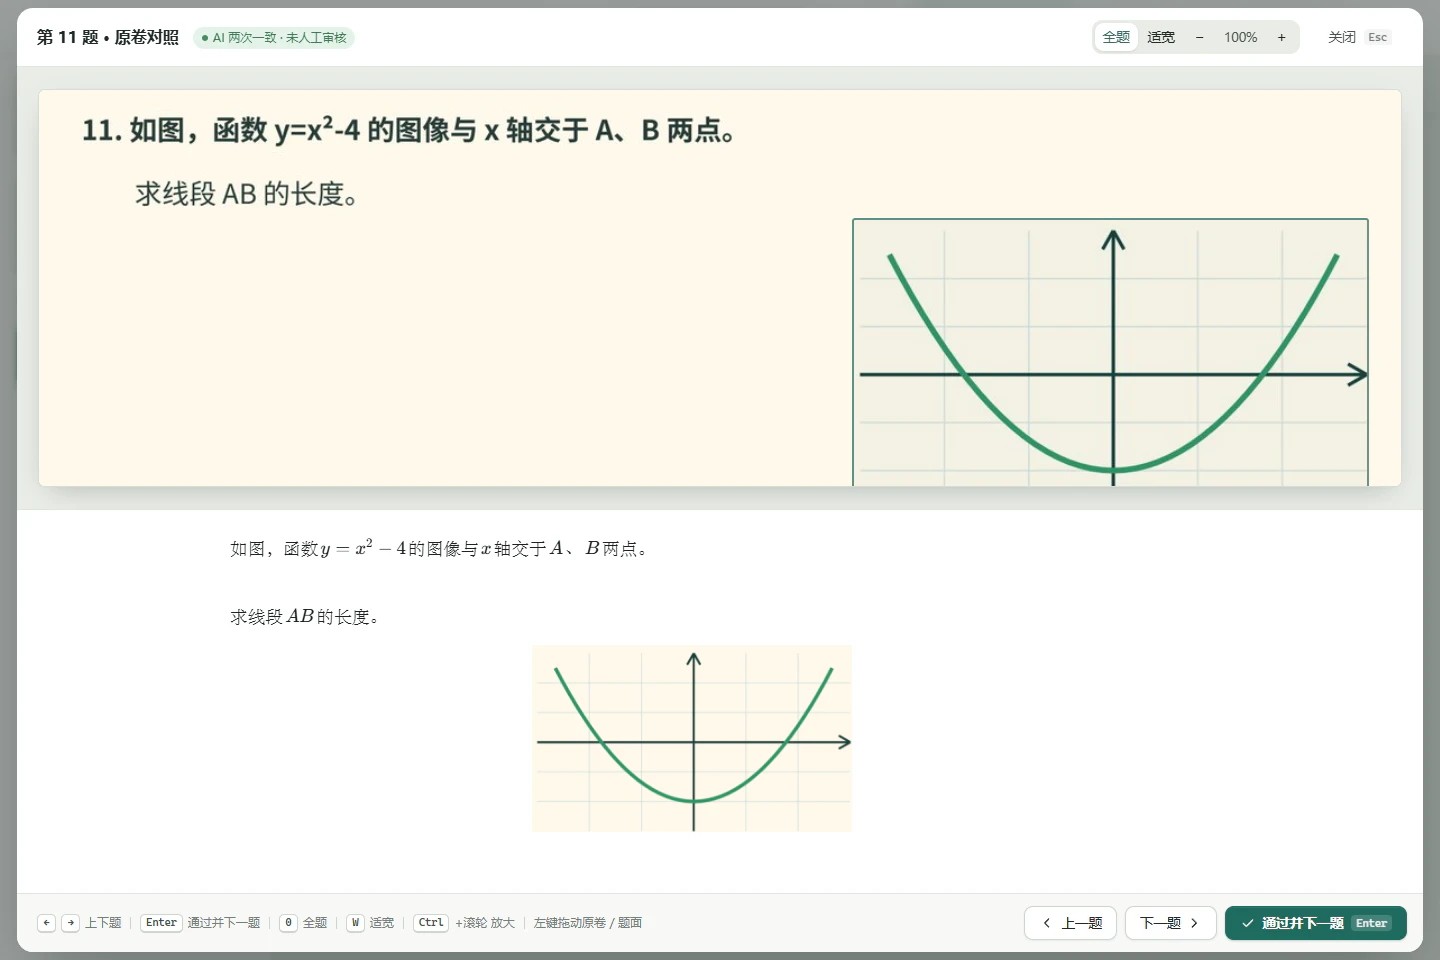
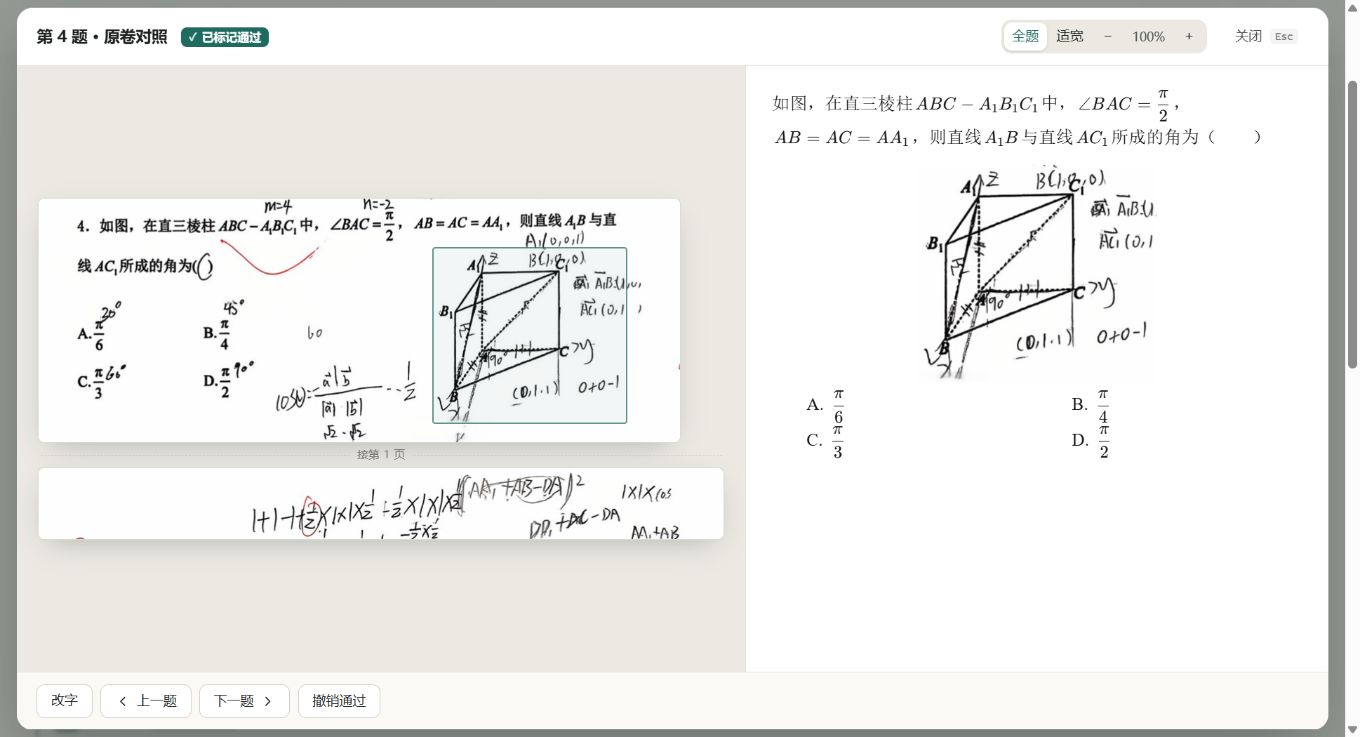
docs: showcase the selected real exam in README
Replace the four original-demo screenshots with actual local app captures
using 202510口镇高中数学.pdf, and add the whole-page source position view.
Show the existing approval state, original handwritten calculations,
published questions, and a practice paper assembled from questions 4,
13, and 16. Document the capture source and question numbers accurately.

Keep the original demo paper for newcomers and put future demo captures
in screenshots/demo so they do not overwrite the homepage images.

Checked all five images, pixel preservation, document links, and the
capture script syntax. No question content was edited or OCR invoked.

diff --git a/README.md b/README.md
@@ -35,6 +35,8 @@
 
 ![题有据逐题核对工作台](docs/assets/screenshots/review-workspace.webp)
 
+本地实际界面：`202510口镇高中数学.pdf` 第 4 题，左边是带演算笔迹的原卷，右边是已整理的题面和配图。
+
 ## 这是什么
 
 以下是源码的改进记录；可下载安装包的版本以 [Releases](https://github.com/CEHNICA/question-bank-card/releases) 为准。
@@ -124,9 +126,9 @@
 
 ## 看看实际界面
 
-以下画面使用虚构演示资料，不包含真实学生信息、私人试卷或 API 凭据。
+以下截图来自本地实际运行的题有据，使用维护者指定的 `202510口镇高中数学.pdf` 中已经整理的题目。这套试卷共有 19 道已入库题目；截图保留了原卷上的实际笔迹，展示现有题库中的原卷对照、选题与组卷。截图来源和选题编号见 [图片说明](docs/assets/screenshots/README.md)。
 
-想自己试一遍，可以下载仓库内的 [原创三页演示卷](docs/demo/tiyouju-demo-paper.pdf)；生成方法与字体许可证见 [演示资料说明](docs/demo/README.md)。
+想自己试一遍，可以下载仓库内供新手使用的 [原创三页演示卷](docs/demo/tiyouju-demo-paper.pdf)；生成方法与字体许可证见 [演示资料说明](docs/demo/README.md)。
 
 ### 一题一卡，原卷与文字放在一起核对
 
@@ -136,13 +138,23 @@
 
 ![放大对照：原卷与题面并排显示](docs/assets/screenshots/compare-view.webp)
 
+### 查看出处，定位到原卷上的题目与配图
+
+![真实原卷定位：第 4 题的文字范围标为橙色，配图范围标为绿色](docs/assets/screenshots/source-view.webp)
+
+可以切换本题范围与整页位置，用 Ctrl+滚轮缩放、按住左键拖动原卷。
+
 ### 审核完成后，进入正式题库与试题篮
 
 ![正式题库、搜索与试题篮](docs/assets/screenshots/library-and-basket.webp)
 
+按来源选中这套试卷，再搜索“如图”，从实际入库题目中选择需要的题。
+
 ### 选题后预览并打印试卷
 
 ![组卷与打印预览](docs/assets/screenshots/paper-preview.webp)
+
+这份选题练习使用原卷第 4、13、16 题，分别展示选择题、填空题与解答题，软件会按题型分组。
 
 ## 安装与使用
 

diff --git a/docs/demo/README.md b/docs/demo/README.md
@@ -1,6 +1,8 @@
 # 公开演示资料
 
-`tiyouju-demo-paper.pdf` 是为题有据截图和功能演示制作的原创三页试卷，不含真实学生、学校、题库或 API 信息。
+`tiyouju-demo-paper.pdf` 是供新手试用和复现功能演示的原创三页试卷，不含真实学生、学校、题库或 API 信息。
+
+项目首页的当前截图使用维护者指定的 `202510口镇高中数学.pdf`，从本地实际界面拍摄。来源与选题见 [首页图片说明](../assets/screenshots/README.md)。
 
 ## 重新生成演示卷
 
@@ -10,15 +12,15 @@
 
 生成器会从可变字体临时导出 400 和 700 字重，只把当前文档用到的字形子集嵌入 PDF。Noto Sans SC 的版权与 SIL Open Font License 1.1 见 `OFL-NotoSansSC.txt`。
 
-## 重新截取界面
+## 截取原创演示卷的界面
 
 先用题有据导入演示卷、人工核对并入库至少三题，再运行：
 
 ```powershell
-node docs/demo/capture_showcase.mjs --base-url http://127.0.0.1:8768 --paper-id <演示任务 ID>
+node docs/demo/capture_showcase.mjs --base-url http://127.0.0.1:8768 --paper-id <演示任务 ID> --out-dir docs/assets/screenshots/demo
 ```
 
-不传 `--paper-id` 时，脚本只会选择名为“题有据功能演示卷”的已完成任务，不会回退到其他资料。截图脚本需要 Playwright 与 Sharp。它只读取本机题库接口；试题篮仅写入临时浏览器的 `localStorage`。
+不传 `--paper-id` 时，脚本只会选择名为“题有据功能演示卷”的已完成任务，不会回退到其他资料。默认输出到 `docs/assets/screenshots/demo`，避免覆盖首页的实际试卷截图。截图脚本需要 Playwright 与 Sharp。它只读取本机题库接口；试题篮仅写入临时浏览器的 `localStorage`。
 
 ## 新手教学用的示例试卷
 

diff --git a/docs/assets/screenshots/README.md b/docs/assets/screenshots/README.md
@@ -1,0 +1,17 @@
+# 首页图片说明
+
+这些图片于 2026-10-02 从本地安装版题有据 1.10.12 的实际界面拍摄，使用维护者指定的 `202510口镇高中数学.pdf` 中已整理、已入库的题目。这套试卷共 19 题。
+
+| 图片 | 实际内容 |
+| --- | --- |
+| `review-workspace.webp` | 原卷第 4 题的全屏核对工作台；原卷、题面与配图并排显示 |
+| `compare-view.webp` | 原卷第 4 题的放大对照窗口 |
+| `source-view.webp` | 原卷第 4 题的整页出处；橙色标出文字范围，绿色标出采用的配图 |
+| `library-and-basket.webp` | 来源限定为这套试卷，搜索“如图”，临时选入 3 题 |
+| `paper-preview.webp` | 原卷第 4、13、16 题组成的练习，按选择题、填空题、解答题分组 |
+
+图片直接截自程序，保存为 WebP 时保持截取画面的像素不变。原卷上的手写演算和批改均来自原有资料，题卡上的通过与入库状态来自现有记录。
+
+拍摄使用既有题目，没有重新调用识读服务或改动题目；临时试题篮和预览标题在拍摄后恢复。仓库中仅保存上述界面截图，不附这套试卷的原始 PDF 或题库数据库。
+
+供新手自行试用的原创演示卷仍保留在 [演示资料目录](../../demo/README.md)。其截图工具默认输出到 `screenshots/demo`，与首页图片分开保存。
